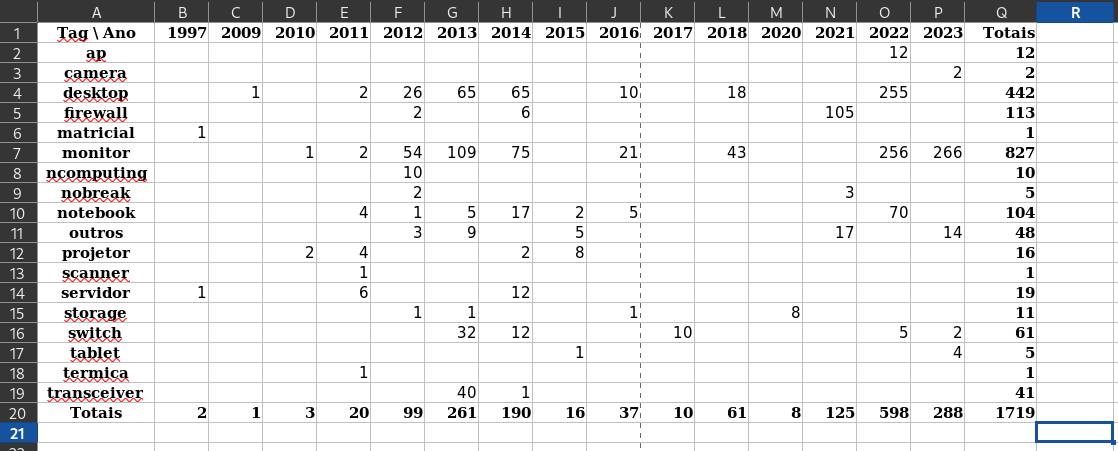
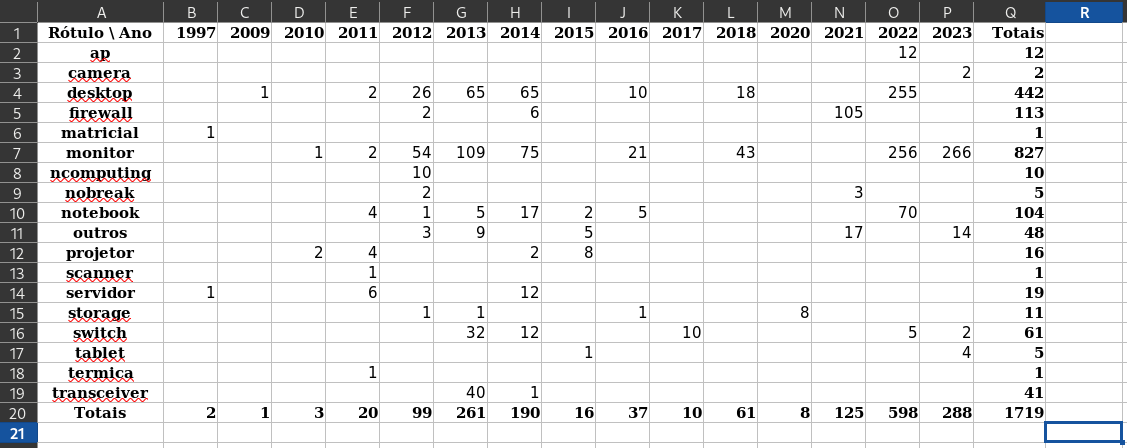
atualizando descrição e utilizando a palavra rótulo no lugar de tag

Changed region(s): [[0.0, 0.0, 1.0, 1.0], [0.9428, 0.0312, 0.9732, 0.0625]]

diff --git a/opyxl.py b/opyxl.py
@@ -153,7 +153,7 @@ class EquiqXlsx:
         self.anos = sorted(list(anos))
 
     def set_tags(self):
-        tags = ['Tag \ Ano'] + self.tags + ['Totais']
+        tags = ['Rótulo \ Ano'] + self.tags + ['Totais']
         max_length = 0
         for line, tag in enumerate(tags, start=1):
             max_length = max(len(tag), max_length)

diff --git a/README.md b/README.md
@@ -5,7 +5,7 @@ O objetivo deste projeto é testar os recursos básicos da biblioteca **openpyxl
 
 # Origem da planilha utilizada
 
-A planilha ".xlsx" para utilizada neste teste é enconrada na web. Não há nenhum significado específico na escolha da planilha.
+A planilha ".xlsx" utilizada neste teste é enconrada na web. Não há nenhum significado específico na escolha da planilha.
 
 Busca feita no Portal Brasileiro de Dados Abertos
 
@@ -31,7 +31,7 @@ A planilha escolhida se encontra em:
 
 # Descrição do processamento
 
-Colunas utilizadas da planilha original:
+Colunas utilizadas da planilha "equipamentos.xlsx":
 - "Descr. Sint.": Descrição do equipamento
 - "Dt.Aquisicao"
 - "Quantidade"
@@ -39,24 +39,28 @@ Colunas utilizadas da planilha original:
 
 Pré-processamento:
 - Cada equipamento aparece na listagem três vezes. Para evitar essa repetição, são consideradas apenas as linhas onde o "Tipo Ativo" é vazio.
-- Baseado na descrição, é criada uma classe de equipamento. Utilizando uma heurística simples são separadas algumas classes, como "monitor" e "notebook". Equipamentos não enquadrados nas classes básicas, ficam na classe "diverso".
+- Baseado na descrição, é criado um rótulo de tipo equipamento. Utilizando uma heurística simples são separados alguns rótulos, como "monitor" e "notebook". Equipamentos não enquadrados nas rótulos básicos, ficam na rótulo "outros".
 
 Planilha criada:
-- Apresenta totais de equipamentos adquiridos em uma grade por ano (coluna) e classe (linha)
-- Apresenta formatações simples como alinhamento e negrito
-- Totaliza os dados por ano e por classe
+- Apresenta totais de equipamentos adquiridos em uma grade por ano (coluna) e rótulo (linha).
+- Apresenta formatações simples como alinhamento e negrito.
+- Totaliza os dados por ano, por rótulo e total geral.
 
 # Ambiente
 
 Utilizando Python 3.11
 
-Em um ambiente virtualizado, instalada a **openpyxl** com o seguinte comando:
+Em um ambiente virtualizado, é instalada a **openpyxl** com o seguinte comando:
 
-`pip install openpyxl`
+```
+pip install openpyxl
+```
 
-Verificação do instalado:
+Verificação dos pacotes instalados:
 
-`pip freeze`
+```
+pip freeze
+```
 
 ```
 et-xmlfile==1.1.0
@@ -67,11 +71,16 @@ openpyxl==3.1.5
 
 Download deste repositório
 
-`git clone https://github.com/anselmobd/opyxl_tst.git`
+```
+git clone https://github.com/anselmobd/opyxl_tst.git
+```
 
 Para executar o programa:
 
-`python opyxl.py`
+```
+cd opyxl_tst
+python opyxl.py
+```
 
 # Resultado
 
